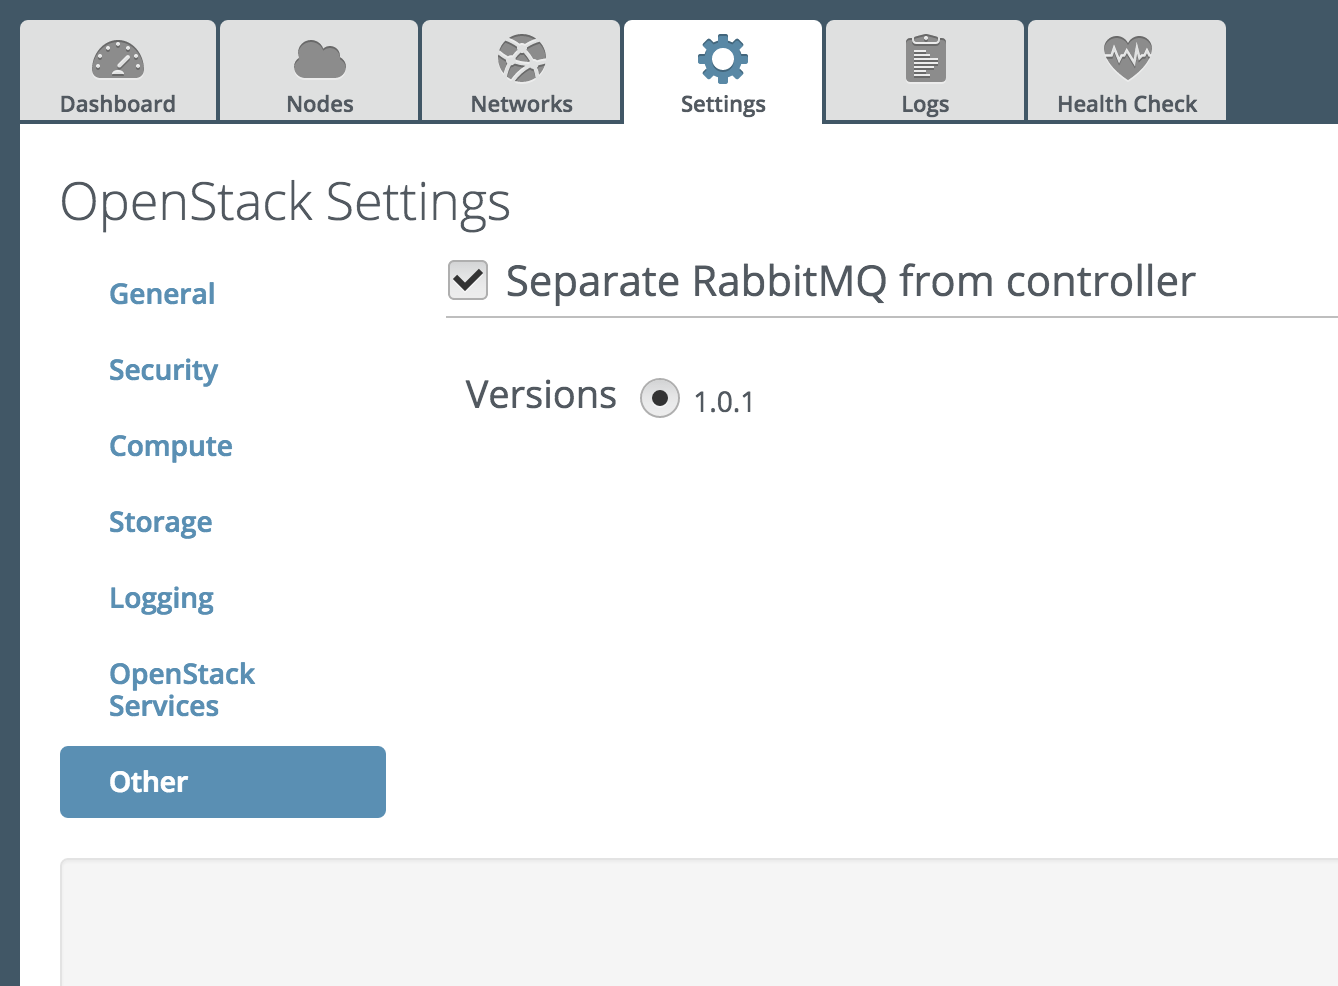
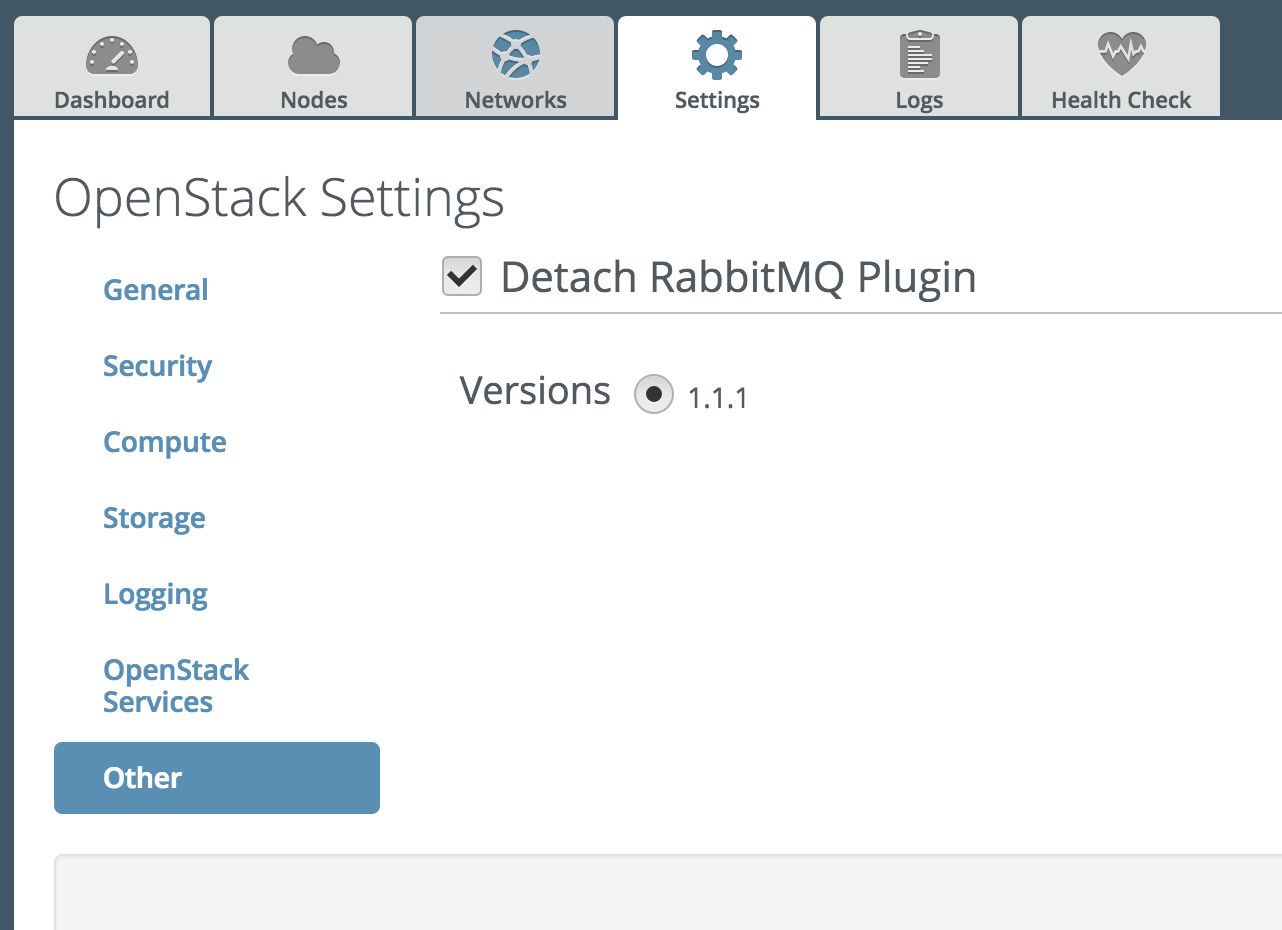
Update documentation for 1.1/Mitaka release

Changed region(s): [[0.0, 0.0, 1.0, 1.0], [0.3432, 0.3742, 0.5928, 0.4366], [0.0624, 0.2806, 0.1872, 0.4054]]

diff --git a/docs/source/conf.py b/docs/source/conf.py
@@ -54,9 +54,9 @@ author = u'Mirantis Inc.'
 # built documents.
 #
 # The short X.Y version.
-version = u'1.0-1.0.1-1'
+version = u'1.1-1.1.1-1'
 # The full version, including alpha/beta/rc tags.
-release = u'1.0-1.0.1-1'
+release = u'1.1-1.1.1-1'
 
 # The language for content autogenerated by Sphinx. Refer to documentation
 # for a list of supported languages.
@@ -199,7 +199,7 @@ html_static_path = ['_static']
 #html_search_scorer = 'scorer.js'
 
 # Output file base name for HTML help builder.
-htmlhelp_basename = 'DetachRabbitMQpluginforFueldoc'
+htmlhelp_basename = 'DetachRabbitMQPluginforFuelDoc'
 
 # -- Options for LaTeX output ---------------------------------------------
 
@@ -221,7 +221,7 @@ latex_elements = {
 # (source start file, target name, title,
 #  author, documentclass [howto, manual, or own class]).
 latex_documents = [
-    (master_doc, 'DetachRabbitMQpluginforFuel.tex', u'Detach RabbitMQ plugin for Fuel Documentation',
+    (master_doc, 'DetachRabbitMQPluginforFuel.tex', u'Detach RabbitMQ plugin for Fuel Documentation',
      u'Mirantis Inc.', 'manual'),
 ]
 
@@ -268,8 +268,8 @@ man_pages = [
 # (source start file, target name, title, author,
 #  dir menu entry, description, category)
 texinfo_documents = [
-    (master_doc, 'DetachRabbitMQpluginforFuel', u'Detach RabbitMQ plugin for Fuel Documentation',
-     author, 'DetachRabbitMQpluginforFuel', 'One line description of project.',
+    (master_doc, 'DetachRabbitMQPluginforFuel', u'Detach RabbitMQ plugin for Fuel Documentation',
+     author, 'DetachRabbitMQPluginforFuel', 'One line description of project.',
      'Miscellaneous'),
 ]
 

diff --git a/docs/source/user_guide.rst b/docs/source/user_guide.rst
@@ -7,7 +7,7 @@ User Guide
 #. After the plugin is installed, `create a new OpenStack environment`_.
 
 #. Open the Settings tab of the Fuel web UI and then select the Other menu.
-   Select "Separate RabbitMQ from controller" checkbox. With the radio button
+   Select "Detach RabbitMQ Plugin" checkbox. With the radio button
    below select the plugin version (multiple options are available only when
    several versions of the plugin are installed):
 
@@ -55,9 +55,24 @@ The same applies to log of Pacemaker which manages RabbitMQ. Its location is:
    - /var/log/remote/<node-name>/lrmd.log
    - /var/log/remote/<node-name>/pengine.log
 
+Upgrades
+--------
+
+It is possible to upgrade Fuel Master node from 8.0 to 9.0 using `the guide`_.
+After the upgrade, the master node will both be able to maintain existing
+Liberty OpenStack environments and deploy new Mitaka ones. If a Liberty
+environment used Detach RabbitMQ 1.0 plugin, it will be possible to continue
+using it. Also one can co-install Detach RabbitMQ 1.1 plugin onto the same
+master node to support detaching RabbitMQ for new Mitaka environments. In that
+case 'fuel plugins --list' command will show that two versions, 1.0 and 1.1,
+of the plugin are installed.
+
+Note: there is no procedure to upgrade a Liberty OpenStack environment with
+Detach RabbitMQ plugin enabled to Mitaka version.
+
 
 .. target-notes::
-.. _create a new OpenStack environment: https://docs.mirantis.com/openstack/fuel/fuel-8.0/user-guide.html#create-a-new-openstack-environment
-.. _configuring your environment: http://docs.mirantis.com/openstack/fuel/fuel-8.0/user-guide.html#configure-your-environment
-.. _Deploy your environment: http://docs.mirantis.com/openstack/fuel/fuel-8.0/user-guide.html#deploy-changes
-
+.. _create a new OpenStack environment: http://docs.openstack.org/developer/fuel-docs/mitaka/userdocs/fuel-user-guide/create-environment.html
+.. _configuring your environment: http://docs.openstack.org/developer/fuel-docs/mitaka/userdocs/fuel-user-guide/configure-environment.html
+.. _Deploy your environment: http://docs.openstack.org/developer/fuel-docs/mitaka/userdocs/fuel-user-guide/deploy-environment/deploy-changes.html#deploy-changes
+.. _the guide: http://docs.openstack.org/developer/fuel-docs/mitaka/userdocs/fuel-install-guide/upgrade/upgrade-fuel.html

diff --git a/docs/source/installation_guide.rst b/docs/source/installation_guide.rst
@@ -10,22 +10,22 @@ Installation Guide
 
 #. Copy the plugin on already installed Fuel Master node::
 
-      [user@home ~]$ scp detach-rabbitmq-1.0-1.0.1-1.noarch.rpm root@:/
+      [user@home ~]$ scp detach-rabbitmq-1.1-1.1.1-1.noarch.rpm root@:/
       <the_Fuel_Master_node_IP>:~/
 
 #. Log into the Fuel Master node. Install the plugin::
 
-      [root@fuel ~]# fuel plugins --install detach-rabbitmq-1.0-1.0.1-1.noarch.rpm
+      [root@fuel ~]# fuel plugins --install detach-rabbitmq-1.1-1.1.1-1.noarch.rpm
 
 #. Verify that the plugin is installed correctly::
 
       [root@fuel ~]# fuel plugins --list
-      id | name            | version | package_version
-      ---|-----------------|---------|----------------
-      1  | detach-rabbitmq | 1.0.1   | 3.0.0
+      id | name            | version | package_version | releases
+      ---+-----------------+---------+-----------------+--------------------
+      1  | detach-rabbitmq | 1.1.1   | 3.0.0           | ubuntu (mitaka-9.0)
 
 
 .. target-notes::
-.. _installing Fuel Master node: https://docs.mirantis.com/openstack/fuel/fuel-8.0/fuel-install-guide.html#introduction-to-fuel-installation
+.. _installing Fuel Master node: http://docs.openstack.org/developer/fuel-docs/mitaka/userdocs/fuel-install-guide.html
 .. _Fuel Plugins Catalog: https://www.mirantis.com/products/openstack-drivers-and-plugins/fuel-plugins/
 

diff --git a/docs/source/overview.rst b/docs/source/overview.rst
@@ -23,9 +23,9 @@ Requirements
 +----------------------------+--------------------+
 | Requirement                | Version/Comment    |
 +============================+====================+
-| Fuel                       | 8.0 release        |
+| Fuel                       | 9.x release        |
 +----------------------------+--------------------+
-| OpenStack compatibility    | Liberty            |
+| OpenStack compatibility    | Mitaka             |
 +----------------------------+--------------------+
 | Operating systems          | Ubuntu 14.04 LTS   |
 +----------------------------+--------------------+

diff --git a/docs/source/index.rst b/docs/source/index.rst
@@ -13,10 +13,3 @@ Welcome to Detach RabbitMQ plugin for Fuel's documentation!
    installation_guide
    user_guide
 
-
-Indices and tables
-==================
-
-* :ref:`genindex`
-* :ref:`search`
-
